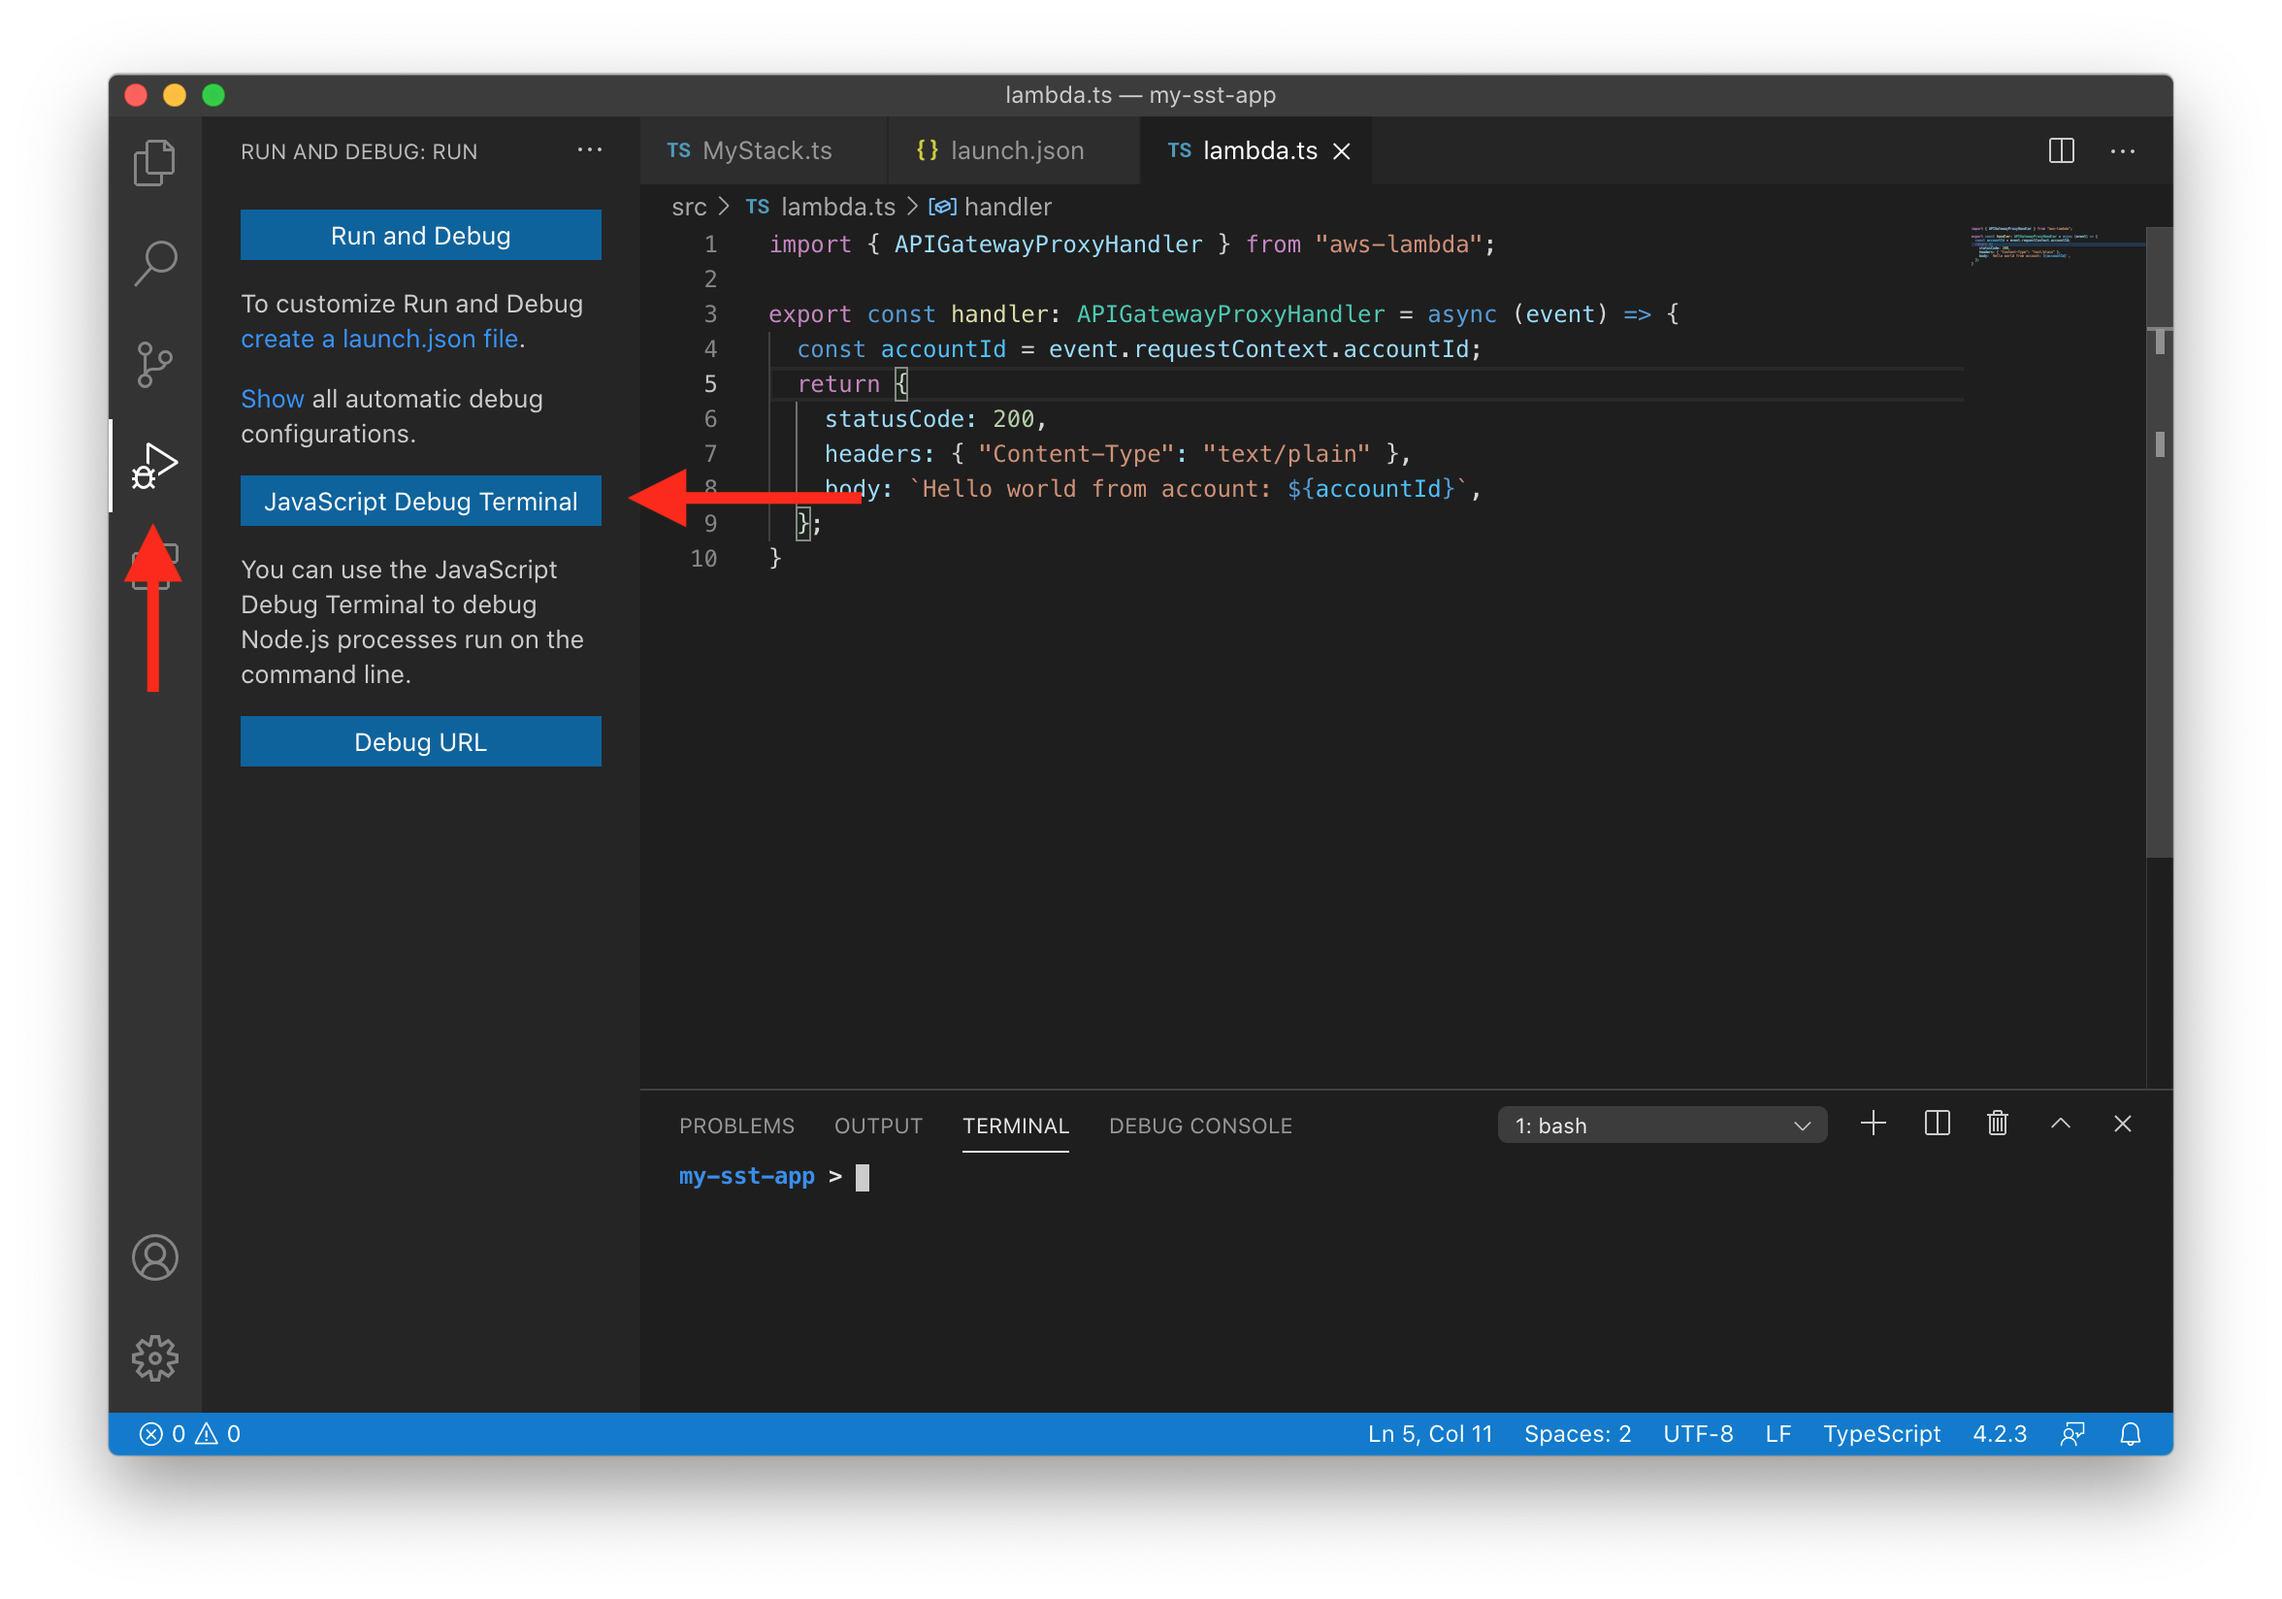
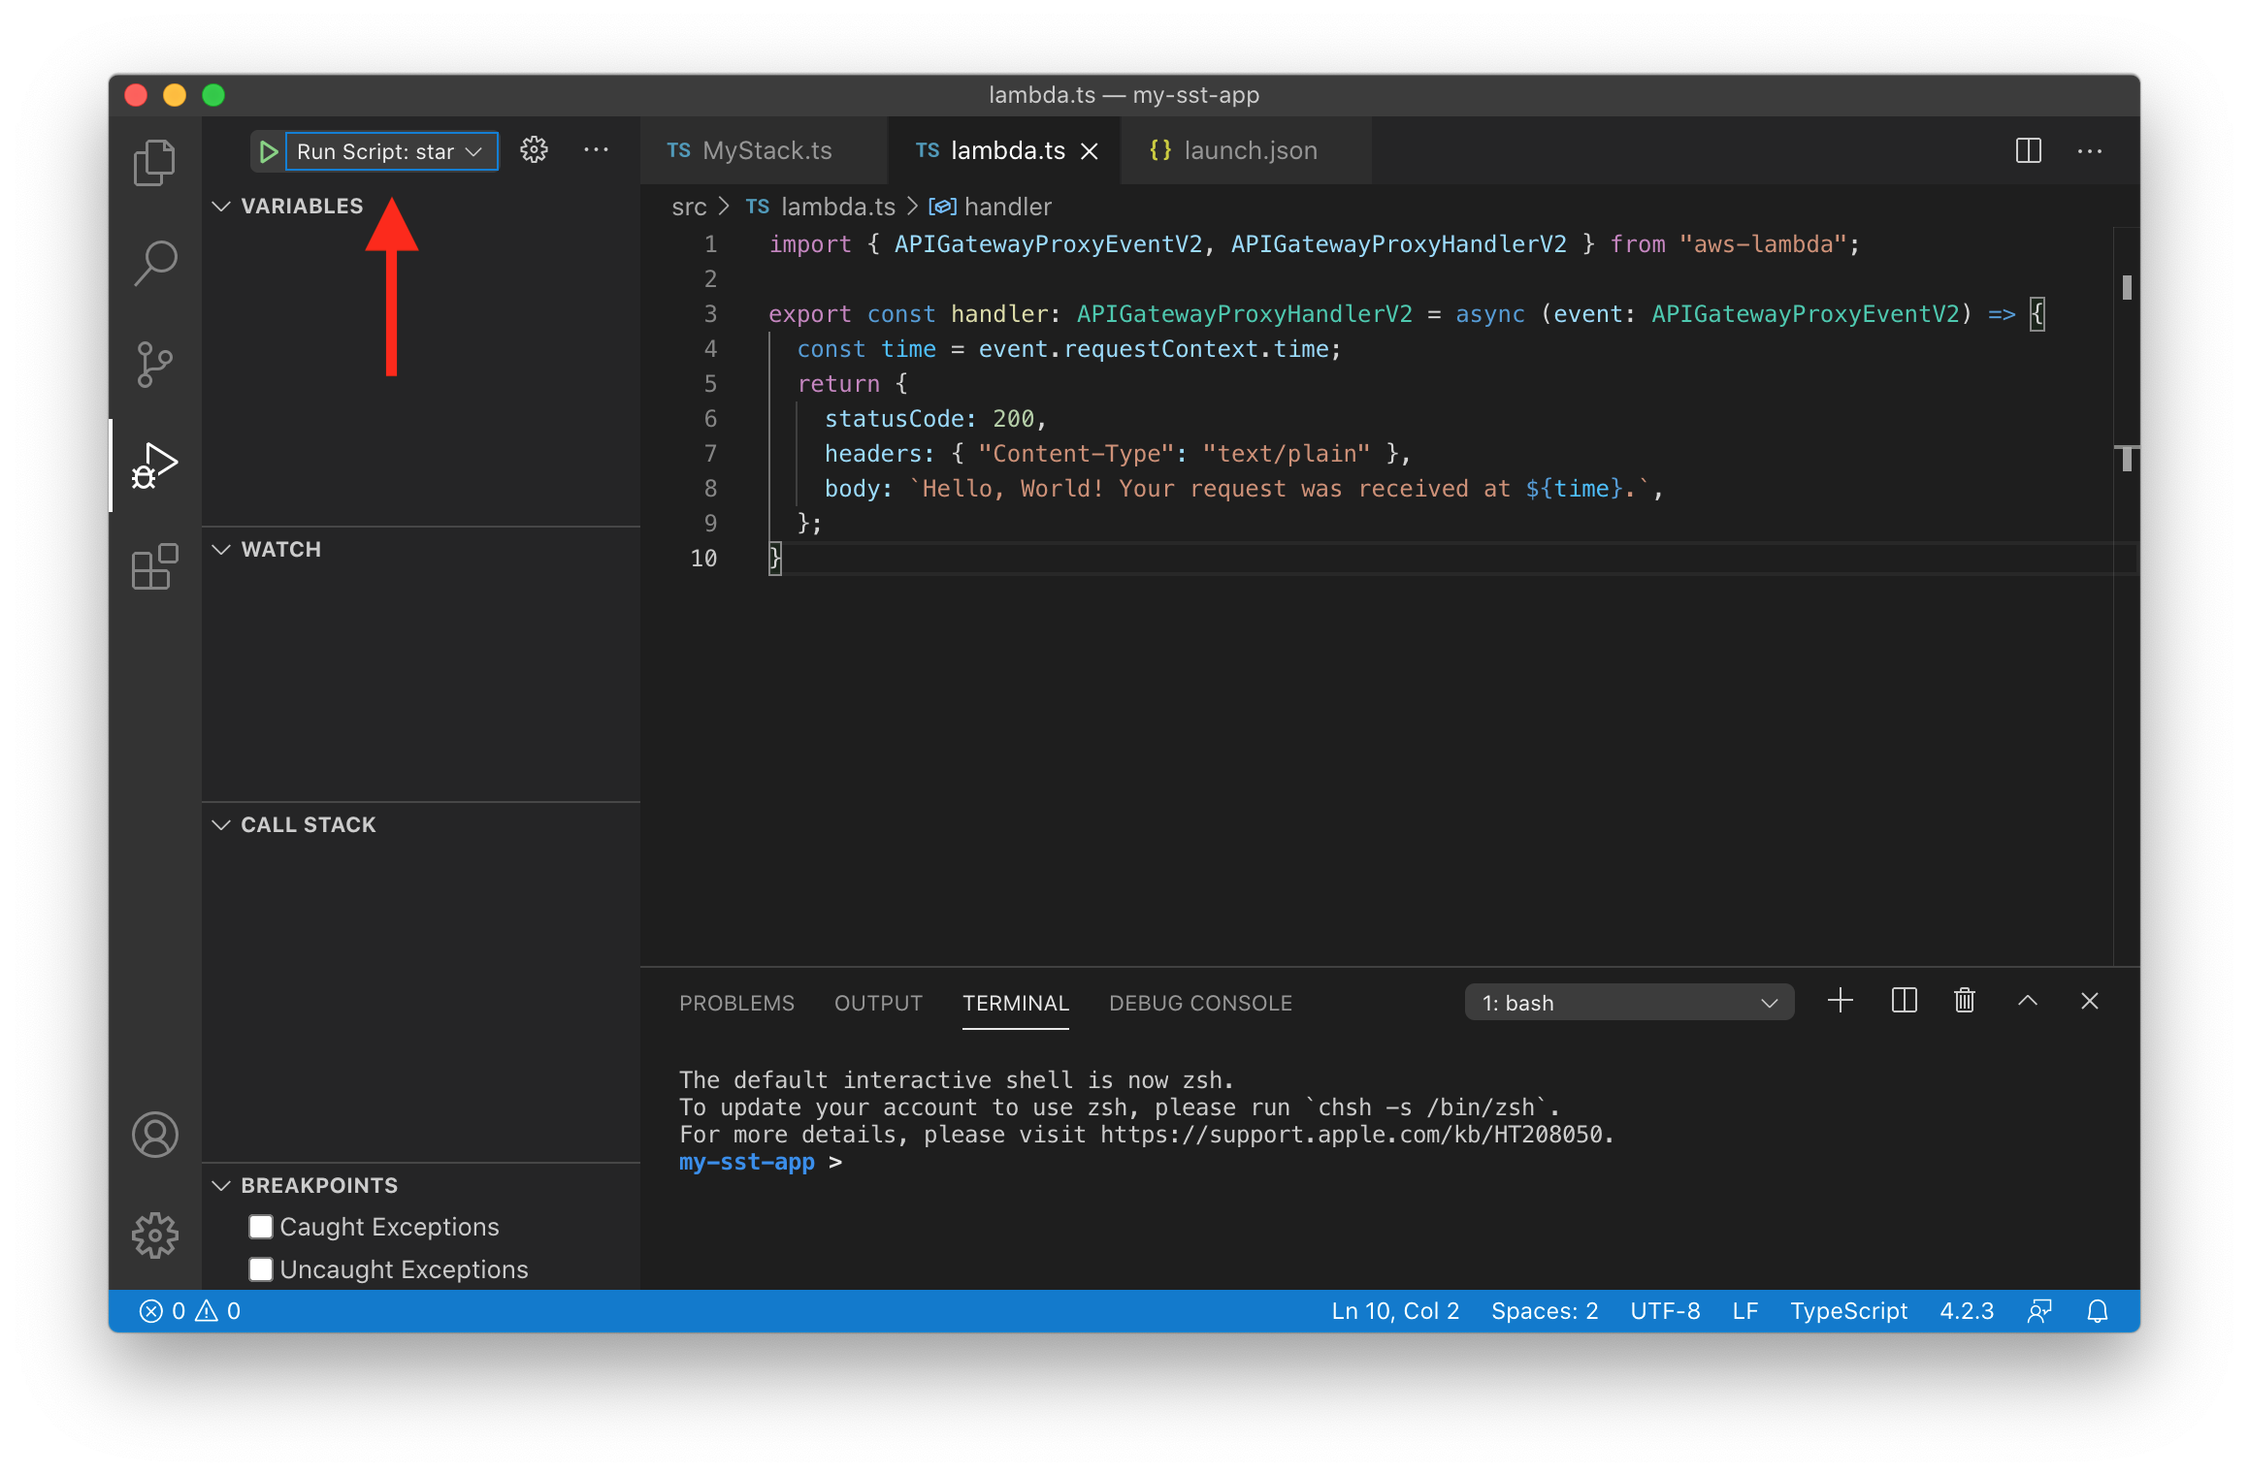
Tweaking docs on VS Code and updating template Lambdas.

diff --git a/packages/create-serverless-stack/templates/typescript/src/lambda.ts b/packages/create-serverless-stack/templates/typescript/src/lambda.ts
@@ -1,9 +1,11 @@
-import { APIGatewayProxyHandler } from "aws-lambda";
+import { APIGatewayProxyEventV2, APIGatewayProxyHandlerV2 } from "aws-lambda";
 
-export const handler: APIGatewayProxyHandler = async (event) => {
+export const handler: APIGatewayProxyHandlerV2 = async (
+  event: APIGatewayProxyEventV2
+) => {
   return {
     statusCode: 200,
     headers: { "Content-Type": "text/plain" },
-    body: `Hello world from account: ${event.requestContext.accountId}`,
+    body: `Hello, World! Your request was received at ${event.requestContext.time}.`,
   };
-}
+};

diff --git a/packages/cli/test/template-app-ts/src/lambda.ts b/packages/cli/test/template-app-ts/src/lambda.ts
@@ -1,9 +1,11 @@
-import { APIGatewayProxyHandler } from "aws-lambda";
+import { APIGatewayProxyEventV2, APIGatewayProxyHandlerV2 } from "aws-lambda";
 
-export const handler: APIGatewayProxyHandler = async (event) => {
+export const handler: APIGatewayProxyHandlerV2 = async (
+  event: APIGatewayProxyEventV2
+) => {
   return {
     statusCode: 200,
     headers: { "Content-Type": "text/plain" },
-    body: `Hello world from account: ${event.requestContext.accountId}`,
+    body: `Hello, World! Your request was received at ${event.requestContext.time}.`,
   };
 };

diff --git a/packages/cli/test/template-app/src/lambda.js b/packages/cli/test/template-app/src/lambda.js
@@ -2,6 +2,6 @@ export async function handler(event) {
   return {
     statusCode: 200,
     headers: { "Content-Type": "text/plain" },
-    body: `Hello world from account: ${event.requestContext.accountId}`,
+    body: `Hello, World! Your request was received at ${event.requestContext.time}.`,
   };
 }

diff --git a/packages/create-serverless-stack/templates/javascript/src/lambda.js b/packages/create-serverless-stack/templates/javascript/src/lambda.js
@@ -2,6 +2,6 @@ export async function handler(event) {
   return {
     statusCode: 200,
     headers: { "Content-Type": "text/plain" },
-    body: `Hello world from account: ${event.requestContext.accountId}`,
+    body: `Hello, World! Your request was received at ${event.requestContext.time}.`,
   };
 }

diff --git a/www/docs/debugging-with-vscode.md b/www/docs/debugging-with-vscode.md
@@ -9,6 +9,8 @@ import useBaseUrl from "@docusaurus/useBaseUrl";
 
 The [Live Lambda Development](live-lambda-development.md) environment runs a Node.js process locally. This allows you to use [Visual Studio Code](https://code.visualstudio.com) to debug your serverless apps live.
 
+<iframe width="560" height="315" src="https://www.youtube.com/embed/2w4A06IsBlU" frameborder="0" allow="accelerometer; autoplay; clipboard-write; encrypted-media; gyroscope; picture-in-picture" allowfullscreen></iframe>
+
 To set this up, add the following to `.vscode/launch.json`.
 
 ```json title="launch.json"
@@ -25,12 +27,32 @@ To set this up, add the following to `.vscode/launch.json`.
 
 This sets it up so that when you run `npm start`, VS Code will automatically attach a debugger to the Node.js process. Allowing you to set breakpoints.
 
-Next, head over to the **Run And Debug** tab and click **JavaScript Debug Terminal**.
+Next, head over to the **Run And Debug** tab and for the debug configuration select **Run Script: start**.
 
 <img alt="VS Code Run and Debug tab" src={useBaseUrl("img/screens/vs-code-run-and-debug-tab.png")} />
 
-Now you can set a breakpoint, run `npm start`, and trigger your Lambda function. VS Code will stop at your breakpoint.
+Now you can set a breakpoint and start your app by pressing `F5` or by clicking **Run** > **Start Debugging**. Then triggering your Lambda function will cause VS Code to stop at your breakpoint.
 
-<img alt="VS Code Lambda function breakpoint" src={useBaseUrl("img/screens/vs-code-lambda-function-breakpoint.png")} />
+Note that, by default the timeout for a Lambda function might not be long enough for you to view the breakpoint info. So you might have to increase it by setting the [`timeout`](constructs/Function.md#timeout) prop.
 
-Note that, by default the timeout for a Lambda function might not be long enough for you to view the breakpoint info. So you might have to increase it by setting the [`timeout`](constructs/Function.md#timeout) prop. Automatically increasing this timeout is on the roadmap. If you'd like to see this feature implemented, please [upvote it over on GitHub](https://github.com/serverless-stack/serverless-stack/discussions/176).
+```js {2}
+new Function(this, "MyLambda", {
+  timeout: 30,
+  handler: "sns/index.main",
+});
+```
+
+And in an [API](constructs/Api.md), you can set the timeout for all the Lambda functions.
+
+```js {3}
+new Api(this, "Api", {
+  defaultFunctionProps: {
+    timeout: 30,
+  },
+  routes: {
+    "GET /": "src/lambda.handler",
+  },
+});
+```
+
+Automatically increasing this timeout is on the roadmap. If you'd like to see this feature implemented, please [upvote it over on GitHub](https://github.com/serverless-stack/serverless-stack/discussions/176).

diff --git a/www/docs/constructs/Table.md b/www/docs/constructs/Table.md
@@ -97,7 +97,11 @@ Override the internally created CDK `Table` instance.
 
 ```js {2}
 new Table(this, "Table", {
-  dynamodbTable: dynamodb.table.fromTableArn(stack, "MyDyanmoDBTable", tableArn),
+  dynamodbTable: dynamodb.table.fromTableArn(
+    stack,
+    "MyDyanmoDBTable",
+    tableArn
+  ),
 });
 ```
 
